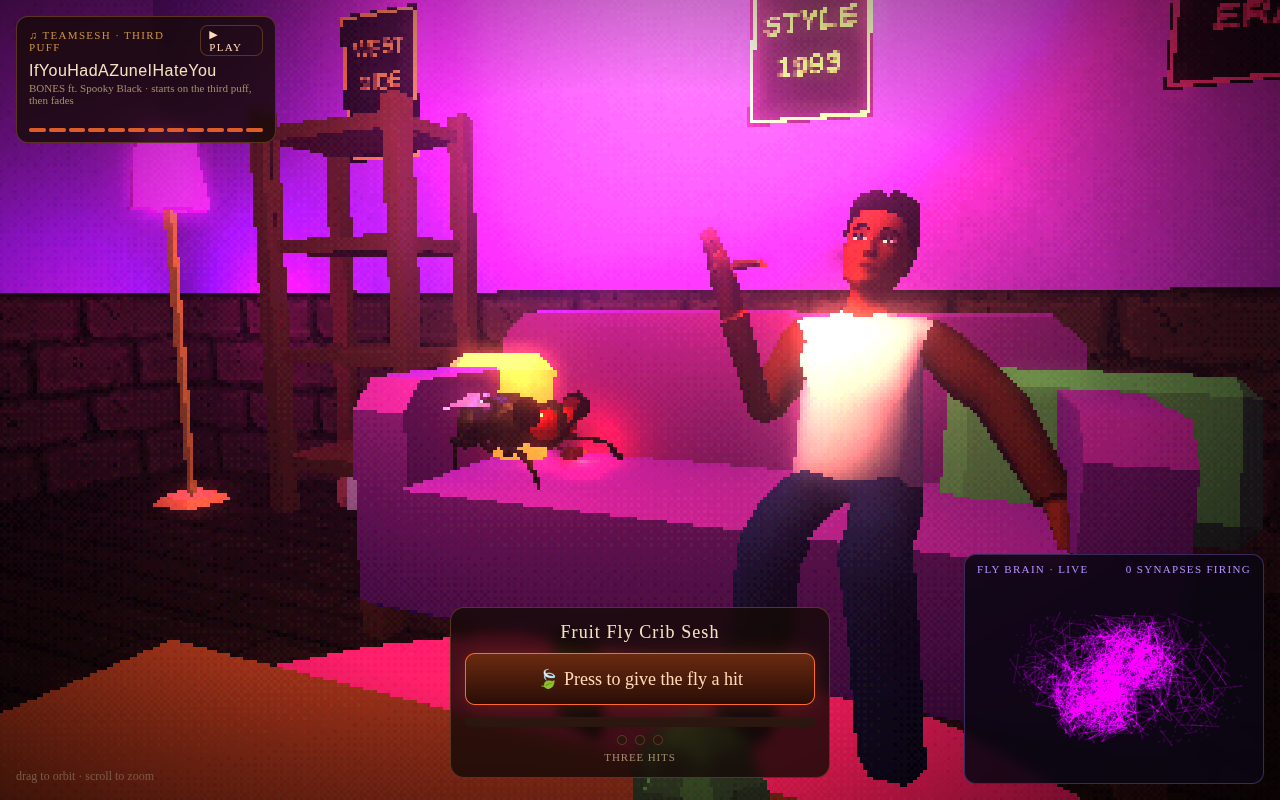
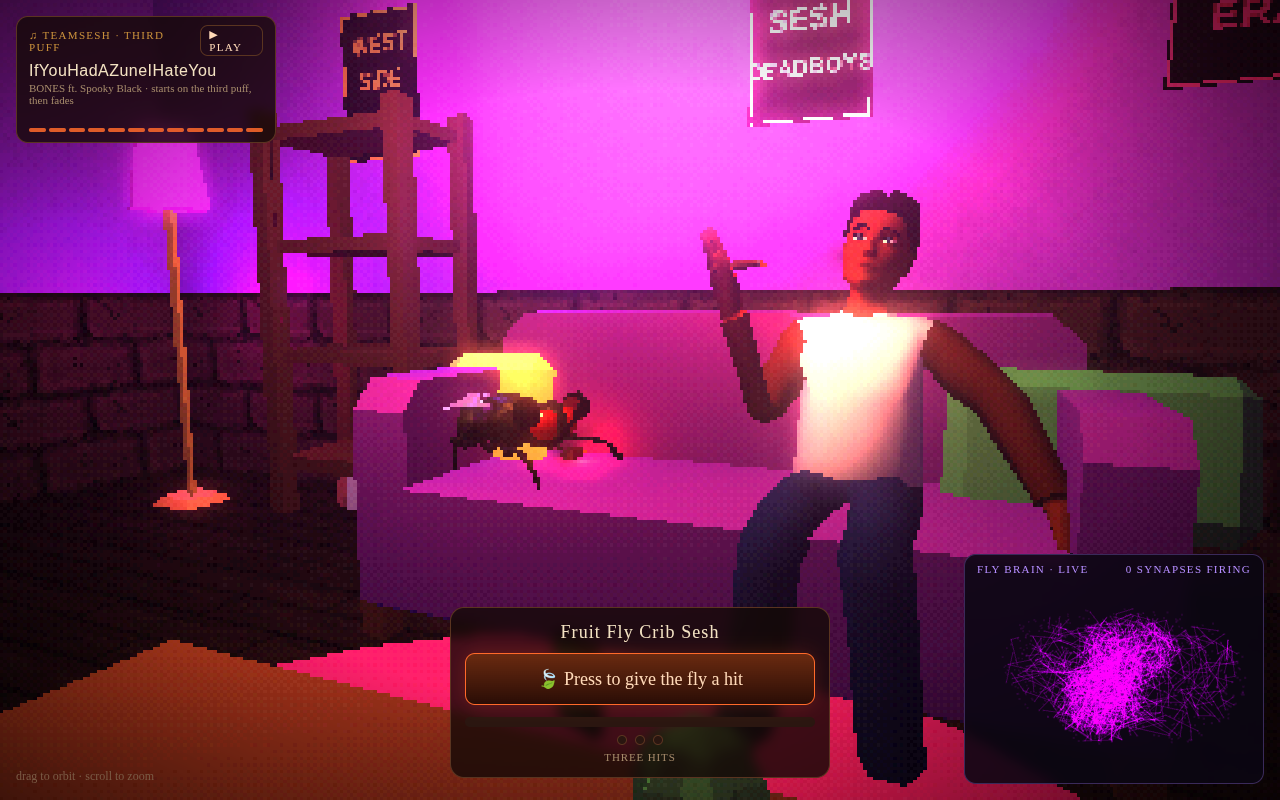
TeamSesh Deadboys poster

diff --git a/index.html b/index.html
@@ -279,18 +279,18 @@ new GLTFLoader().load('assets/room.glb', (g) => {
 });
 
 // posters on the back wall (canvas textures, drawn small so they stay crunchy)
-function posterTex(lines, bg, fg, w=64, h=96){
+function posterTex(lines, bg, fg, w=96, h=144){
   const c = document.createElement('canvas'); c.width = w; c.height = h; const g = c.getContext('2d');
   g.fillStyle = bg; g.fillRect(0,0,w,h); g.strokeStyle = fg; g.lineWidth = 2; g.strokeRect(2,2,w-4,h-4);
   g.fillStyle = fg; g.font = 'bold 15px Impact, "Arial Black", sans-serif'; g.textAlign = 'center';
-  lines.forEach((l,i) => g.fillText(l, w/2, 28 + i*22));
+  lines.forEach((l,i) => { g.font = `bold ${l.length > 6 ? 17 : 24}px Impact, "Arial Black", sans-serif`; g.fillText(l, w/2, 40 + i*34); });   // long words drop a size so they fit the poster
   const t = new THREE.CanvasTexture(c); return pixelTex(t);
 }
 function hangPosters(){
   // back wall is at kit y=+2.5 -> three z = -2.5*ROOM_S; walls face -z
   const specs = [
     [-1.6, [ 'WEST', 'SIDE', '★' ], '#1b0a2a', '#e8d27a'],
-    [ 0.2, [ 'DOGGY', 'STYLE', '1993' ], '#0d2a14', '#9fe07a'],
+    [ 0.2, [ 'TEAM', 'SESH', 'DEADBOYS' ], '#0a0a0a', '#e8e8e8'],
     [ 1.4, [ 'G', 'FUNK', 'ERA' ], '#2a0d1a', '#ff7ac8'],
   ];
   for (const [x, lines, bg, fg] of specs) {
@@ -298,7 +298,7 @@ function hangPosters(){
     p.position.set(x*ROOM_S, 1.75*ROOM_S, -2.5*ROOM_S + .1); scene.add(p);
   }
   // a poster of the lowrider on the left wall, facing +x
-  const lp = new THREE.Mesh(new THREE.PlaneGeometry(1.8, 1.2), psxify(new THREE.MeshLambertMaterial({ map: posterTex(['LOW', 'RIDER'], '#101a3a', '#ffd25a', 96, 64) })));
+  const lp = new THREE.Mesh(new THREE.PlaneGeometry(1.8, 1.2), psxify(new THREE.MeshLambertMaterial({ map: posterTex(['LOW', 'RIDER'], '#101a3a', '#ffd25a', 144, 96) })));
   lp.rotation.y = Math.PI/2; lp.position.set(-3*ROOM_S + .1, 1.8*ROOM_S, 1.2*ROOM_S); scene.add(lp);
 }
 
